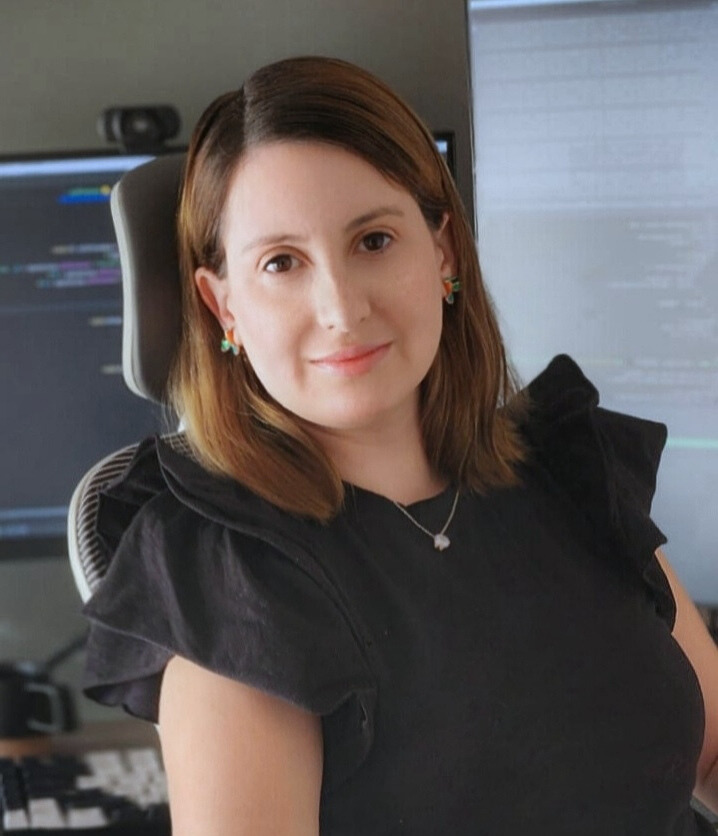
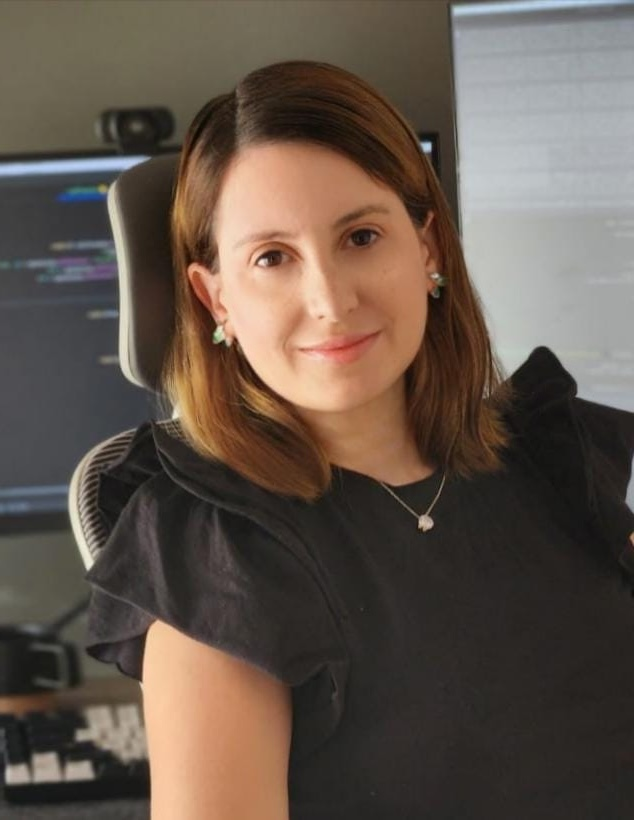
photo_adjust

diff --git a/app/page.tsx b/app/page.tsx
@@ -20,15 +20,15 @@ export default function Home() {
       <TransitionEffect />
       <main className="flex items-center text-dark w-full min-h-screen dark:text-light lg:pt-10">
         <MainLayout className="pt-28 lg:pt-0 relative overflow-hidden">
-          <div className="flex flex-col md:flex-row justify-center items-center w-full gap-8">
-            <div className="w-full md:hidden lg:inline-block lg:w-1/2 mt-0 mb-4">
-            <Image
-              src={foto1}
-              alt="Daniela Manzano"
-              className="w-full h-auto rounded-2xl"
-              priority={true}
-            />
-            </div>
+          <div className="flex flex-col md:flex-row justify-center items-center w-full gap-8 ">
+              <Image
+                src={foto1}
+                alt="Daniela Manzano"
+                className="rounded-2xl border-2 border-solid bg-light p-5 border-yellow dark:border-yellow"
+                width={450}
+                height={580}
+                priority={true}
+              />
             <div className="w-full lg:w-1/2 flex flex-col items-center self-center text-center md:text-start">
               <AnimatedText
                 title="Hola soy Dani y espero seamos equipo."
